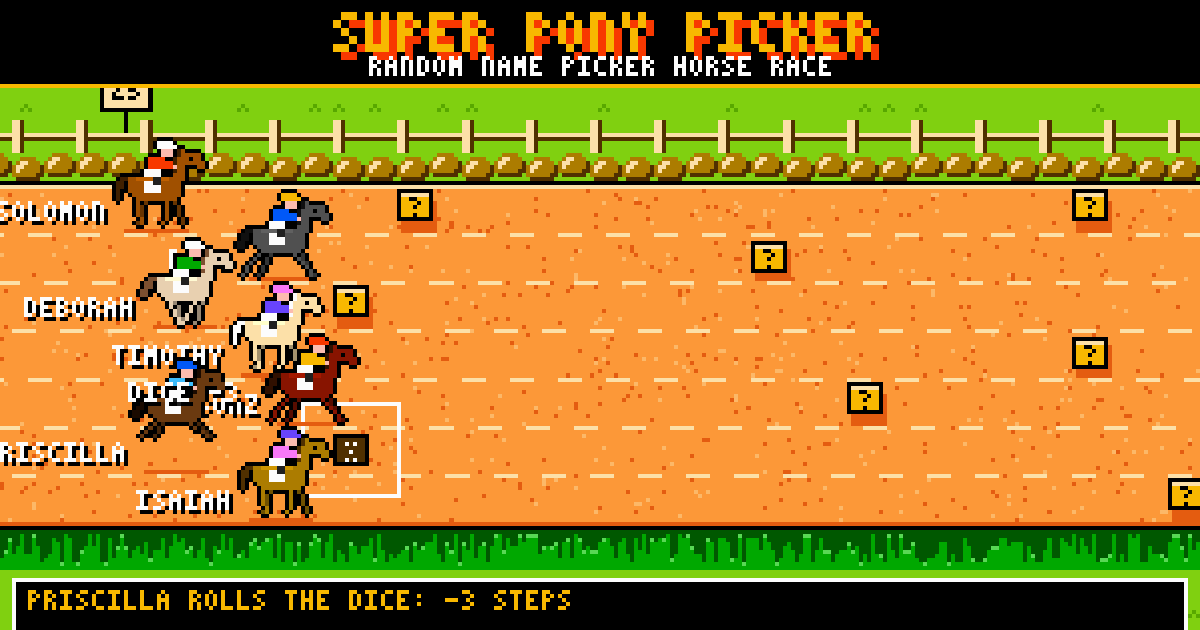
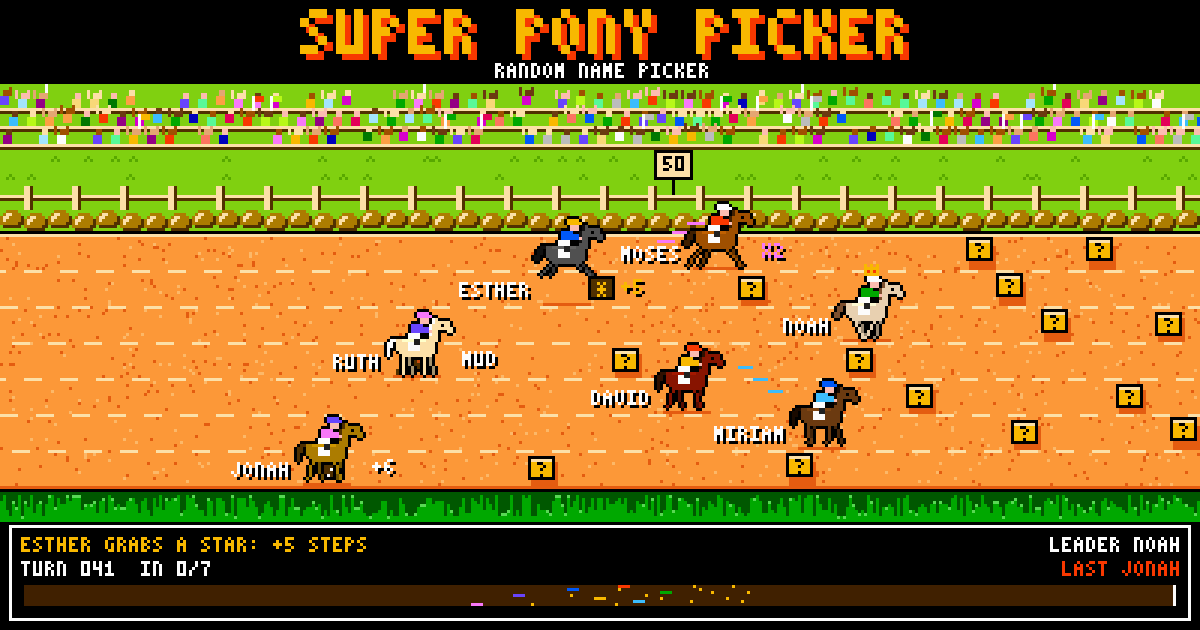
feat(projects): refresh Super Pony Picker cover image and card summary  Make the project card on /projects/ more eye-catching and give it a summary long enough to match the other cards.  Cover image (feature.png, og-image.png): - Replace the cover with a new 1200x630 mid-race scene showing seven   p

diff --git a/content/projects/super-pony-picker/index.md b/content/projects/super-pony-picker/index.md
@@ -1,13 +1,13 @@
 ---
 title: "Super Pony Picker: Random Name Picker"
 description: "Free online random name picker: enter up to 20 names and watch an 8-bit pony race pick a winner. Fair, fun and instant, perfect for classrooms, teams, raffles and giveaways."
-summary: "A free and fair random name picker disguised as an 8-bit horse race. Enter up to 20 names, press start and let the ponies decide who wins or who ends up in last place."
+summary: "A free and fair random name picker disguised as an 8-bit horse race. Enter up to 20 names, choose whether to pick the winner or the last one (1, 2 or 3 people) and watch the ponies race through turbos, stars, mud and dice rolls to the podium. Built with p5.js, the Web Crypto API and live chiptune sound, it runs entirely in your browser."
 date: 2026-09-28
 lastmod: 2026-09-28
-featureAlt: "8-bit ponies racing on a dirt track in Super Pony Picker"
-coverAlt: "8-bit ponies racing on a dirt track in Super Pony Picker"
+featureAlt: "Seven 8-bit ponies racing mid-race past a cheering crowd in Super Pony Picker"
+coverAlt: "Seven 8-bit ponies racing mid-race past a cheering crowd in Super Pony Picker"
 coverCaption: "Super Pony Picker"
-thumbnailAlt: "8-bit ponies racing on a dirt track in Super Pony Picker"
+thumbnailAlt: "Seven 8-bit ponies racing mid-race past a cheering crowd in Super Pony Picker"
 categories: ["software", "games"]
 tags: ["random-name-picker", "name-picker", "random-picker", "raffle", "giveaway", "horse-race", "game", "8-bit", "pixel-art", "retro", "p5js", "javascript", "web-audio", "chiptune", "randomness"]
 ---
